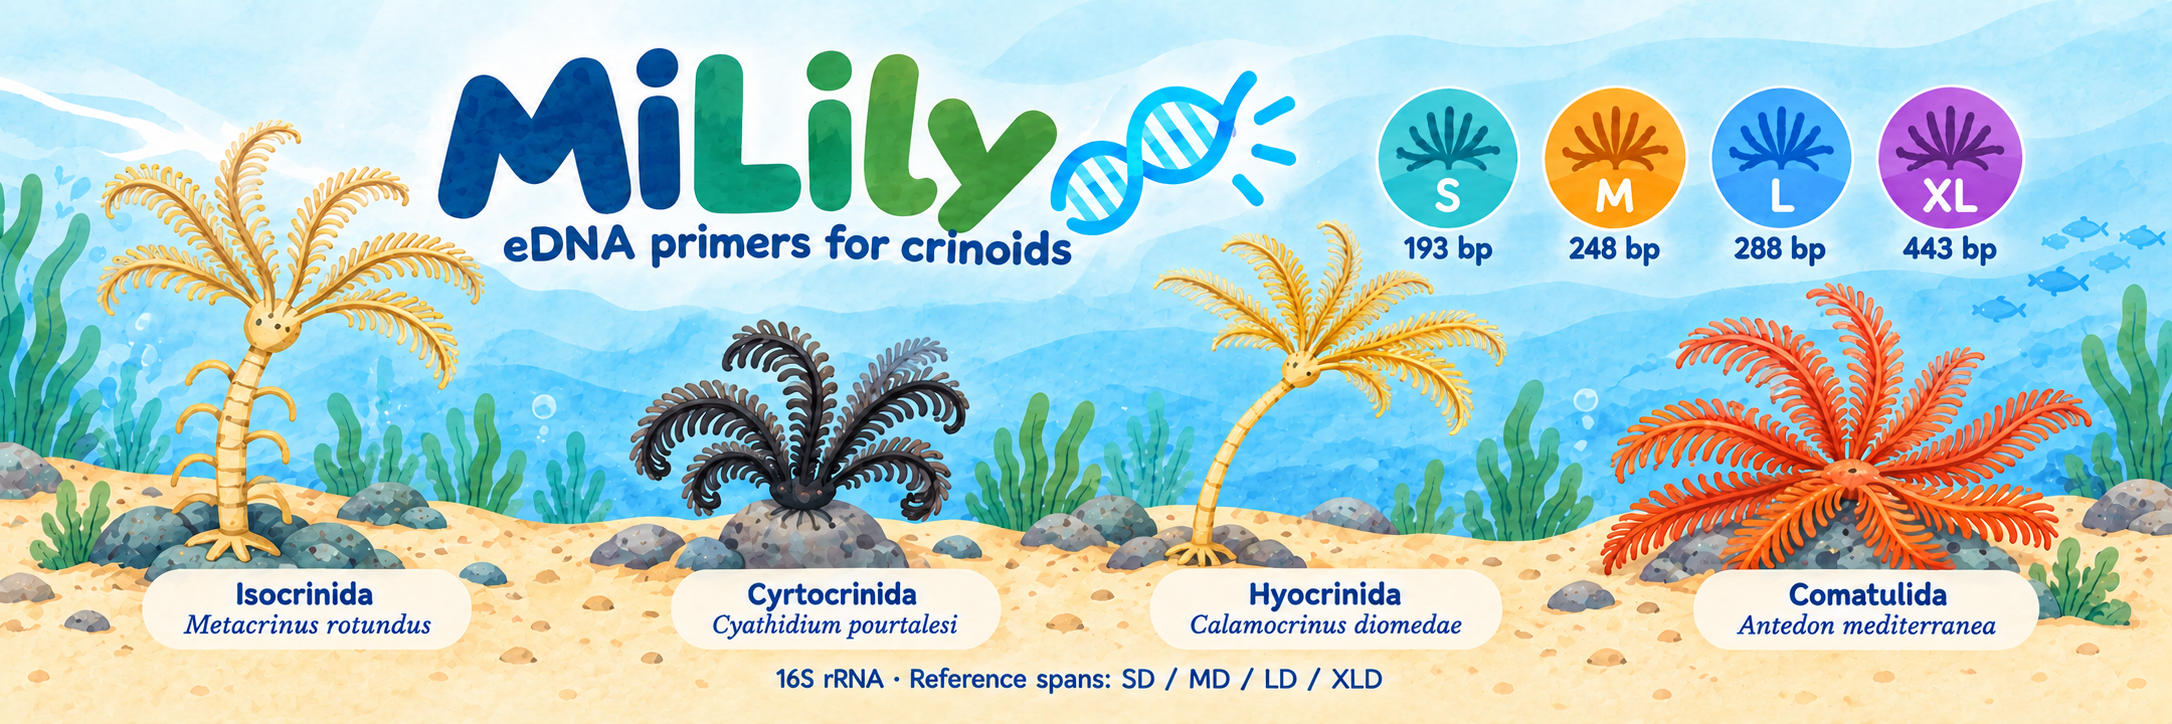
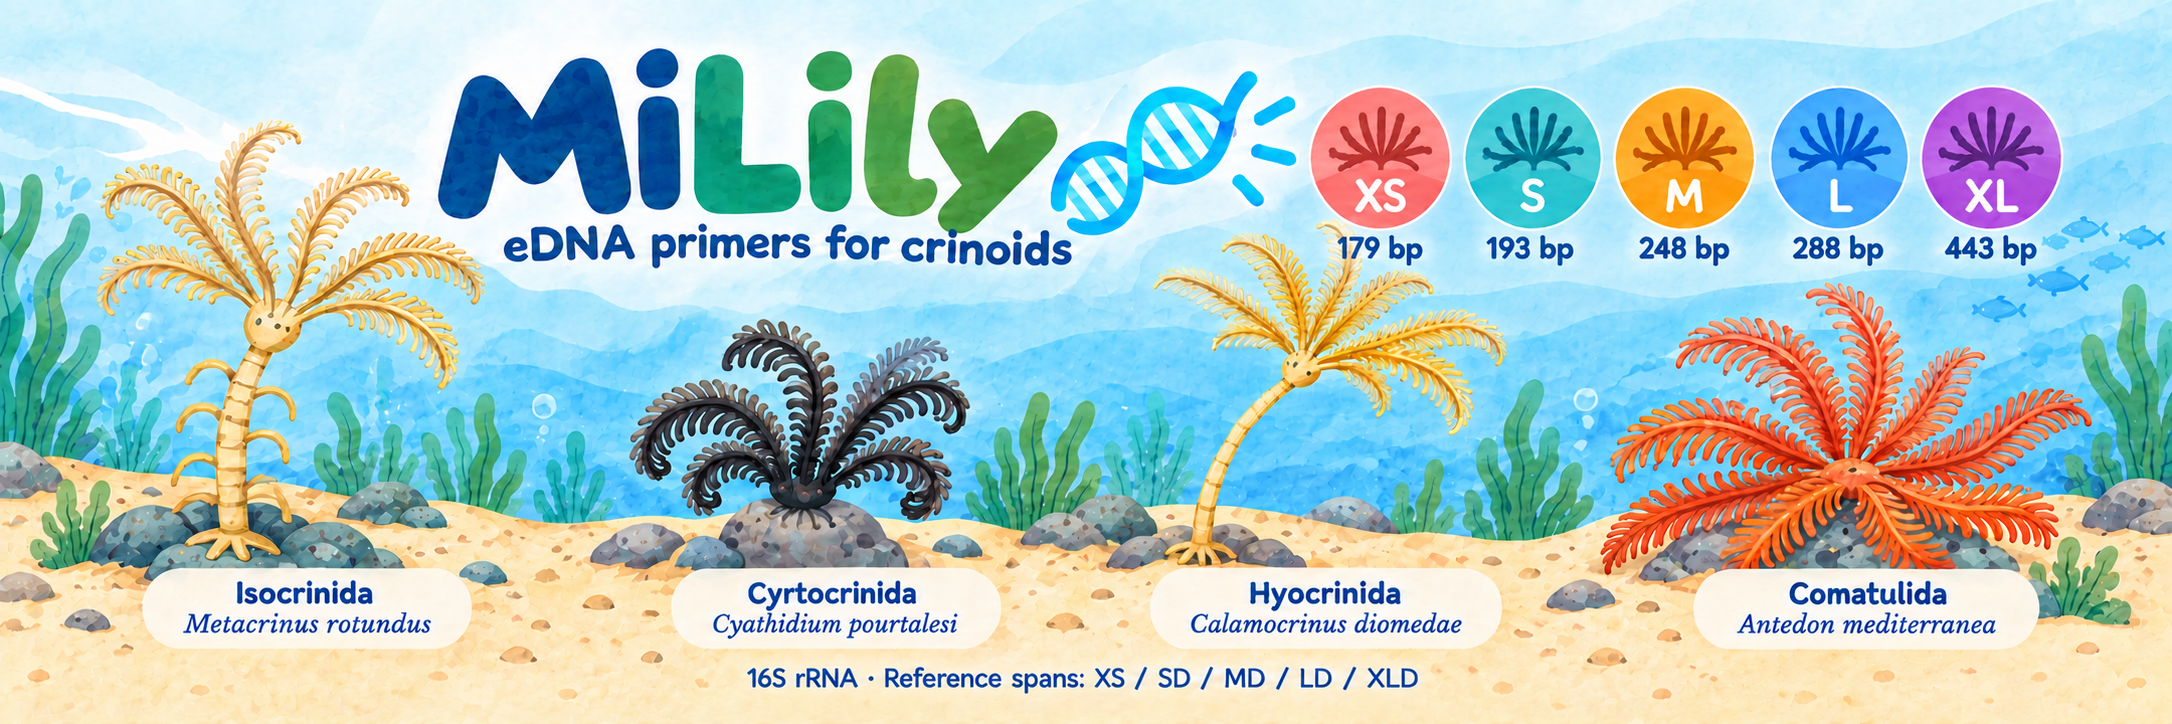
Add XS to MiLily watercolor overview and bilingual captions

diff --git a/CHANGELOG.md b/CHANGELOG.md
@@ -1,3 +1,5 @@
 # 2026-10-25
 
+Update the pinned watercolor overview with five badges: XS 179, S 193, M 248, L 288 and XL 443 bp. Synchronize both README captions and distinguish reference spans from XS product lengths.
+
 Add MiLily-XS as a fixed single-pair candidate with F `TTGGGGCAACCDCGAAG` and R `CAACATCGAGGTCGCAAAC`. Integrate its sequences, 179-bp reference coordinates, 159–194 bp product range, base matching, exhaustive scan results, independent verification and explicit structure/background assessment. Update both READMEs and methods/reproduction documents for five windows, 13 portfolios, 17 pairs and 34 oligos. S–XL retain their current sequences and A/B coordinate rules. Copyright terms are unchanged.

diff --git a/README.md b/README.md
@@ -1,4 +1,6 @@
-![MiLily](figures/MiLily_overview_current.png)
+![MiLily overview: XS, S, M, L and XL](figures/MiLily_overview_current.png)
+
+Badge values are primer-inclusive reference spans on AF049132.1: XS 179, S 193, M 248, L 288 and XL 443 bp. XS products across the reference panel are 159–194 bp.
 
 # MiLily
 

diff --git a/README.zh-CN.md b/README.zh-CN.md
@@ -1,4 +1,6 @@
-![MiLily](figures/MiLily_overview_current.png)
+![MiLily介绍图：XS、S、M、L、XL](figures/MiLily_overview_current.png)
+
+圆标为AF049132.1上的含引物参考跨度：XS 179、S 193、M 248、L 288、XL 443 bp。XS在参考面板中的预测产物长度为159–194 bp。
 
 # MiLily
 
